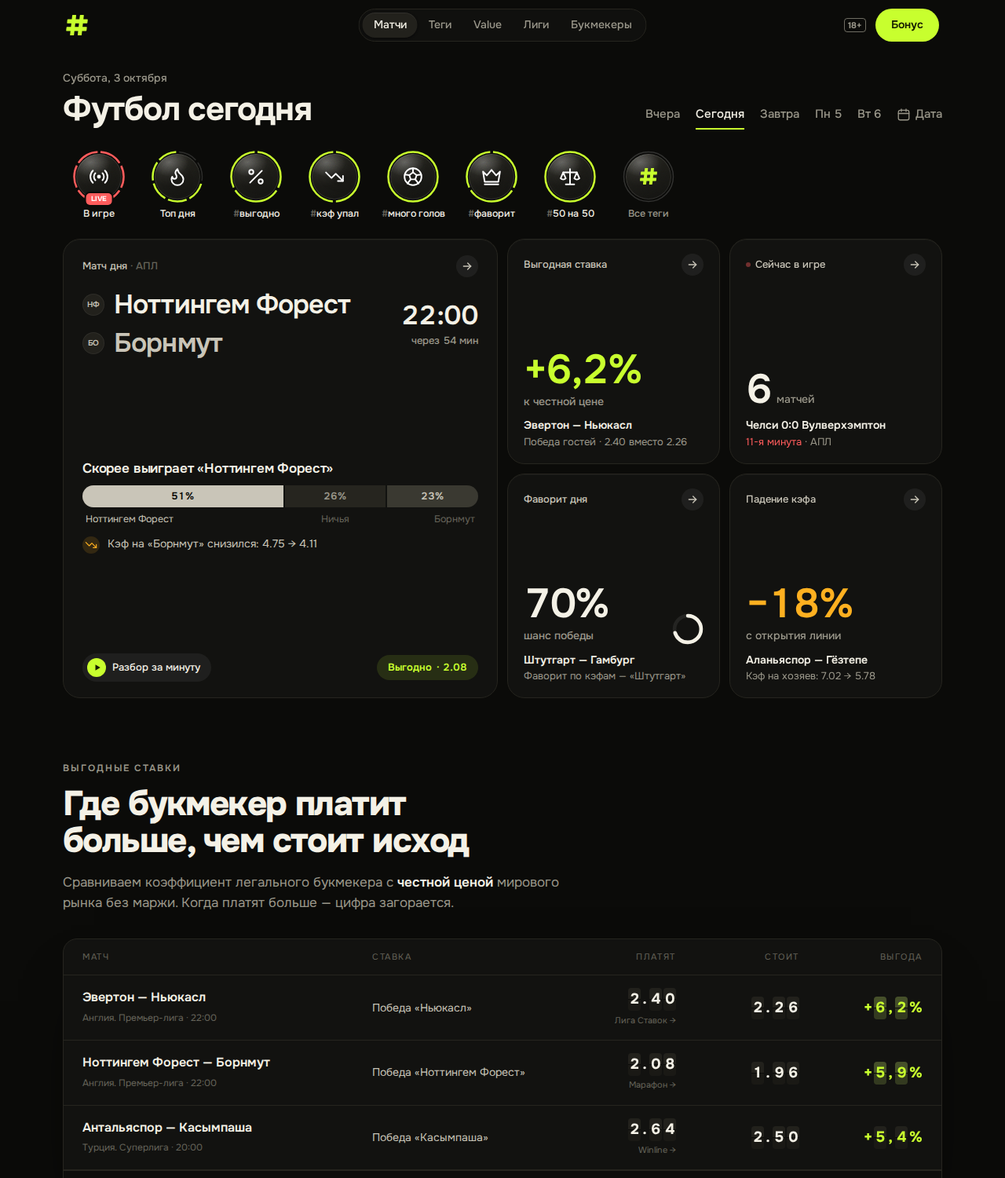
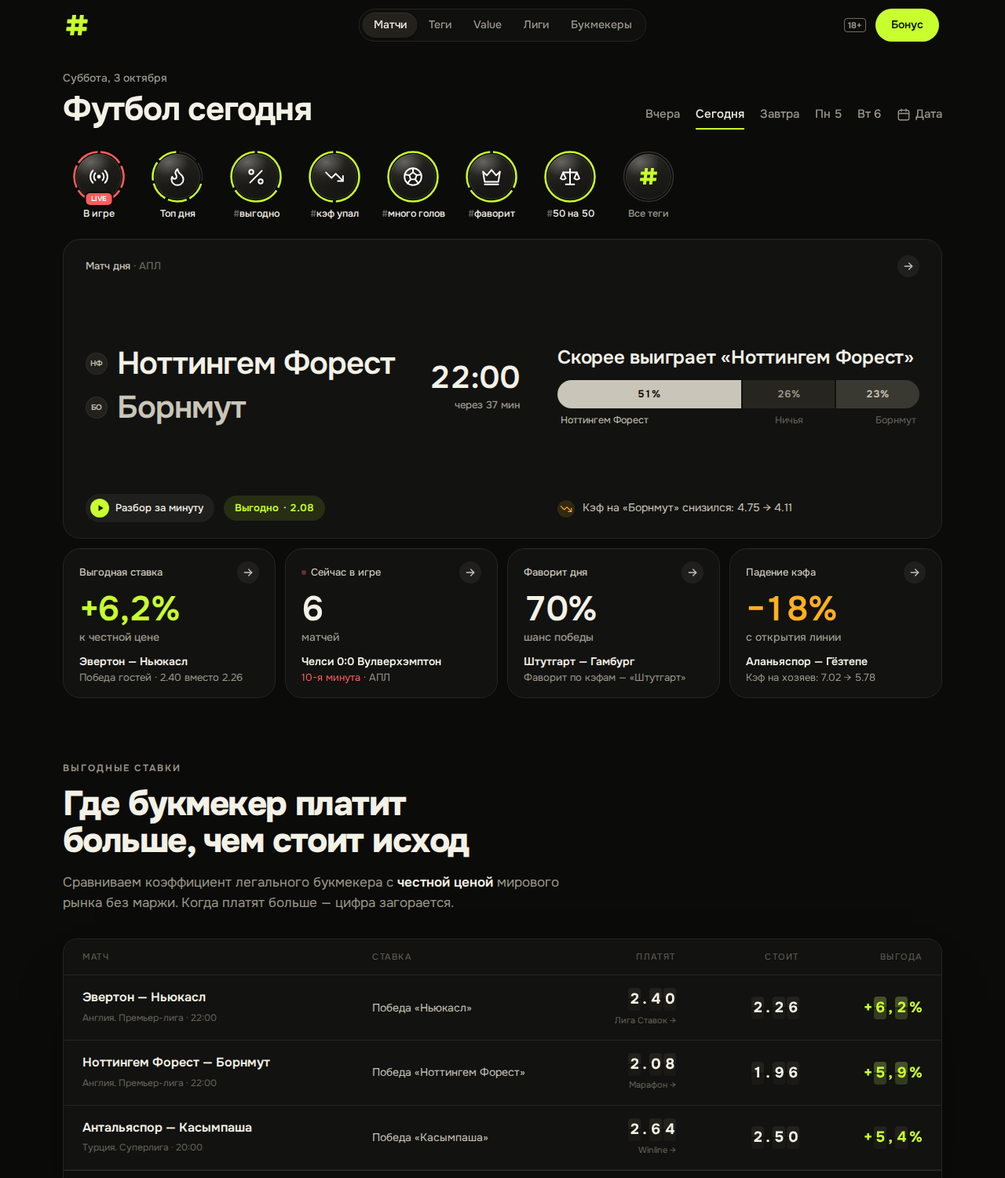
Сводка дня без пустот: широкий «Матч дня» и ряд плиток под ним
- На компьютере «Матч дня» — карточка во всю строку в две колонки: слева
  команды со временем начала и кнопки, справа вывод, полоса шансов и причина.
  Под ней — до четырёх плиток одним рядом. Лишнюю высоту экрана забирает
  «Матч дня» (строки сетки 1fr auto), плитки — по содержимому, поэтому в них
  больше нет пустоты сверху.
- В плитках цифра и подпись всегда столбиком, матч прижат к низу: цифры
  в ряду стоят на одной высоте.
- Убрано кольцо у «Фаворита дня» — оно было похоже на значок загрузки.
- Шрифт команд, вывода и высота полосы шансов растут с высотой окна;
  телефонная раскладка прежняя.
- README, AGENTS.md и docs/home.png обновлены.

Claude-Session: https://claude.ai/code/session_01LqCxNKeCAKNwhNzoBsjYvY

diff --git a/components/DaySummary.tsx b/components/DaySummary.tsx
@@ -69,33 +69,39 @@ function Go() {
   )
 }
 
+/**
+ * Плитка по высоте содержимого: подпись и стрелка → цифра с подписью → матч и пояснение внизу.
+ * Цифры во всех плитках ряда стоят на одной высоте, даже если у матча две строки.
+ */
 function Tile({ label, children }: { label: React.ReactNode; children: React.ReactNode }) {
   return (
-    <article className="group relative flex h-full min-h-[150px] min-w-0 flex-col rounded-[22px] border border-edge bg-panel p-4 shadow-[inset_0_1px_0_rgb(255_255_255/0.035)] transition-colors duration-300 hover:border-edge-2 sm:px-5 sm:py-[18px]">
+    <article className="group relative flex h-full min-w-0 flex-col rounded-[22px] border border-edge bg-panel p-4 shadow-[inset_0_1px_0_rgb(255_255_255/0.035)] transition-colors duration-300 hover:border-edge-2 sm:px-5 sm:py-4">
       <div className="flex items-center justify-between gap-2">
         <span className="flex min-w-0 items-center gap-1.5 truncate text-[13px] font-medium text-chalk">{label}</span>
         <Go />
       </div>
-      <div className="flex min-w-0 flex-1 flex-col justify-end pt-2">{children}</div>
+      <div className="flex min-w-0 flex-1 flex-col pt-2.5">{children}</div>
     </article>
   )
 }
 
-/** Крупная цифра и подпись к ней обычным размером: в узкой плитке подпись встаёт под цифру. */
+/** Крупная цифра и под ней — подпись обычным размером. Всегда столбиком: в соседних плитках всё на одной высоте. */
 function Big({ children, unit, className = '' }: { children: React.ReactNode; unit?: React.ReactNode; className?: string }) {
   return (
-    // подпись встаёт рядом с цифрой, а если места нет — переносится под неё целиком, не обрезаясь
-    <div className="flex min-w-0 flex-wrap items-baseline gap-x-1.5 gap-y-1">
-      <span className={`num whitespace-nowrap text-[30px] font-semibold leading-none tracking-[-0.045em] sm:text-[34px] lg:text-[clamp(34px,5.6vh,52px)] ${className}`}>{children}</span>
-      {unit ? <span className="whitespace-nowrap text-[14px] font-medium text-dim">{unit}</span> : null}
+    <div className="min-w-0">
+      <span className={`num block whitespace-nowrap text-[30px] font-semibold leading-none tracking-[-0.045em] sm:text-[34px] lg:text-[clamp(30px,4.4vh,44px)] ${className}`}>{children}</span>
+      {unit ? <span className="mt-1 block truncate text-[14px] font-medium text-dim">{unit}</span> : null}
     </div>
   )
 }
 
+/** Матч и строка пояснения — внизу плитки. */
+const Detail = ({ children }: { children: React.ReactNode }) => <div className="mt-auto pt-2.5">{children}</div>
+
 /** Матч плитки: вся плитка — ссылка (открывает сторис). */
 function MatchLink({ it, children }: { it: FeedItem; children?: React.ReactNode }) {
   return (
-    <StoryLink id={it.match.id} href={matchHref(it.match)} className={`mt-2.5 line-clamp-2 text-[14px] font-semibold leading-snug ${COVER}`}>
+    <StoryLink id={it.match.id} href={matchHref(it.match)} className={`line-clamp-2 text-[14px] font-semibold leading-snug ${COVER}`}>
       {children ?? names(it.match)}
     </StoryLink>
   )
@@ -113,18 +119,6 @@ const Short = ({ phone, full }: { phone: string; full: string }) => (
     <span className="hidden sm:inline">{full}</span>
   </>
 )
-
-/** Кольцо одного значения: доля круга = шанс. */
-function Ring({ p, size = 40 }: { p: number; size?: number }) {
-  const r = 22
-  const c = 2 * Math.PI * r
-  return (
-    <svg viewBox="0 0 52 52" width={size} height={size} className="shrink-0 -rotate-90" aria-hidden>
-      <circle cx="26" cy="26" r={r} fill="none" stroke="rgb(255 255 255 / 0.08)" strokeWidth="6" />
-      <circle cx="26" cy="26" r={r} fill="none" stroke="var(--color-fg)" strokeWidth="6" strokeLinecap="round" strokeDasharray={`${c * p} ${c}`} />
-    </svg>
-  )
-}
 
 /** Когда начнётся: сегодня — «через 40 мин», «через 3 ч»; в другой день — дата («6 октября»), а не «через 66 ч». */
 const until = (ts: number) => {
@@ -153,12 +147,14 @@ function Card({ kind, s }: { kind: CardKind; s: Summary }) {
           <Big className="text-acid" unit="к честной цене">
             {edge(p.ev ?? 0)}
           </Big>
-          <MatchLink it={it} />
-          {/* что ставить и откуда процент: платят столько-то, а исход стоит столько-то */}
-          <Note>
-            {cap(outcomeShort(p.key))}
-            {p.odd ? ` · ${p.odd.toFixed(2)} вместо ${(1 / p.prob).toFixed(2)}` : ''}
-          </Note>
+          <Detail>
+            <MatchLink it={it} />
+            {/* что ставить и откуда процент: платят столько-то, а исход стоит столько-то */}
+            <Note>
+              {cap(outcomeShort(p.key))}
+              {p.odd ? ` · ${p.odd.toFixed(2)} вместо ${(1 / p.prob).toFixed(2)}` : ''}
+            </Note>
+          </Detail>
         </Tile>
       )
     }
@@ -170,10 +166,12 @@ function Card({ kind, s }: { kind: CardKind; s: Summary }) {
           <Big className="text-hot" unit="с открытия линии">
             −{Math.round(g.drop * 100)}%
           </Big>
-          <MatchLink it={g.item} />
-          <Note>
-            Кэф на {g.side === 'home' ? 'хозяев' : 'гостей'}: {g.from.toFixed(2)} → {g.to.toFixed(2)}
-          </Note>
+          <Detail>
+            <MatchLink it={g.item} />
+            <Note>
+              Кэф на {g.side === 'home' ? 'хозяев' : 'гостей'}: {g.from.toFixed(2)} → {g.to.toFixed(2)}
+            </Note>
+          </Detail>
         </Tile>
       )
     }
@@ -192,7 +190,7 @@ function Card({ kind, s }: { kind: CardKind; s: Summary }) {
         >
           <Big unit={plural(s.liveCount, ['матч', 'матча', 'матчей'])}>{s.liveCount}</Big>
           {m ? (
-            <>
+            <Detail>
               <MatchLink it={top}>
                 {m.home.name} <span className="num">{m.score ? `${m.score.home}:${m.score.away}` : '–'}</span> {m.away.name}
               </MatchLink>
@@ -200,7 +198,7 @@ function Card({ kind, s }: { kind: CardKind; s: Summary }) {
                 <span className="text-live">{m.statusCode === 4 ? 'перерыв' : m.elapsed ? `${m.elapsed}-я минута` : 'идёт'}</span> ·{' '}
                 {featuredInfo(m.league)?.short || m.league.name}
               </Note>
-            </>
+            </Detail>
           ) : null}
         </Tile>
       )
@@ -210,8 +208,10 @@ function Card({ kind, s }: { kind: CardKind; s: Summary }) {
       return (
         <Tile label={s.liveCount ? 'Следующий матч' : 'Первый матч'}>
           <Big unit={until(it.match.ts)}>{formatTime(it.match.ts)}</Big>
-          <MatchLink it={it} />
-          <Note>{featuredInfo(it.match.league)?.short || it.match.league.name}</Note>
+          <Detail>
+            <MatchLink it={it} />
+            <Note>{featuredInfo(it.match.league)?.short || it.match.league.name}</Note>
+          </Detail>
         </Tile>
       )
     }
@@ -222,10 +222,12 @@ function Card({ kind, s }: { kind: CardKind; s: Summary }) {
       return (
         <Tile label="Ждём голов">
           <Big unit={<Short phone="3+ гола" full="шанс 3+ голов" />}>{pct(g.p)}</Big>
-          <MatchLink it={g.item} />
-          <Note>
-            {more > 0 ? `Ещё ${more} ${plural(more, ['матч', 'матча', 'матчей'])} с шансом от ${GOALS_FROM}` : `В подборке — шанс от ${GOALS_FROM}`}
-          </Note>
+          <Detail>
+            <MatchLink it={g.item} />
+            <Note>
+              {more > 0 ? `Ещё ${more} ${plural(more, ['матч', 'матча', 'матчей'])} с шансом от ${GOALS_FROM}` : `В подборке — шанс от ${GOALS_FROM}`}
+            </Note>
+          </Detail>
         </Tile>
       )
     }
@@ -233,12 +235,11 @@ function Card({ kind, s }: { kind: CardKind; s: Summary }) {
       const f = s.favorite!
       return (
         <Tile label="Фаворит дня">
-          <div className="flex items-end justify-between gap-3">
-            <Big unit={<Short phone="победа" full="шанс победы" />}>{pct(f.p)}</Big>
-            <Ring p={f.p} />
-          </div>
-          <MatchLink it={f.item} />
-          <Note>Фаворит по кэфам — «{sideName(f.item.match, f.side)}»</Note>
+          <Big unit={<Short phone="победа" full="шанс победы" />}>{pct(f.p)}</Big>
+          <Detail>
+            <MatchLink it={f.item} />
+            <Note>Фаворит по кэфам — «{sideName(f.item.match, f.side)}»</Note>
+          </Detail>
         </Tile>
       )
     }
@@ -248,10 +249,12 @@ function Card({ kind, s }: { kind: CardKind; s: Summary }) {
           <a href="#matches" className={`block ${COVER}`}>
             <Big unit={plural(s.total, ['матч', 'матча', 'матчей'])}>{s.total}</Big>
           </a>
-          <p className="mt-2.5 line-clamp-2 text-[14px] font-semibold leading-snug">{s.topLeagues.map((l) => featuredInfo(l)?.short || l.name).join(', ')}</p>
-          <Note>
-            {s.leagues} {plural(s.leagues, ['турнир', 'турнира', 'турниров'])}
-          </Note>
+          <Detail>
+            <p className="line-clamp-2 text-[14px] font-semibold leading-snug">{s.topLeagues.map((l) => featuredInfo(l)?.short || l.name).join(', ')}</p>
+            <Note>
+              {s.leagues} {plural(s.leagues, ['турнир', 'турнира', 'турниров'])}
+            </Note>
+          </Detail>
         </Tile>
       )
   }
@@ -282,7 +285,7 @@ function ChanceBar({ m }: { m: Match }) {
   const label = `Шансы по коэффициентам букмекеров: ${cells.map((c) => `${c.k === 'draw' ? c.name : `«${c.name}»`} — ${c.n}%`).join(', ')}`
   return (
     <div role="img" aria-label={label} title={label}>
-      <div className="flex h-7 gap-0.5 overflow-hidden rounded-full">
+      <div className="flex h-7 gap-0.5 overflow-hidden rounded-full lg:h-[clamp(28px,3.6vh,36px)]">
         {cells.map((c) => (
           <span key={c.k} className={`num grid min-w-0 place-items-center text-[13px] font-semibold ${tone(c.k)}`} style={{ width: `${c.p * 100}%` }}>
             <span className="truncate px-1">{c.n}%</span>
@@ -346,11 +349,12 @@ function TopCard({ it }: { it: FeedItem }) {
     </span>
   )
   return (
-    // три группы: команды сверху, вывод посередине, кнопки снизу — свободное место делится между ними,
-    // а не собирается одной дырой, когда карточка тянется на высоту экрана
-    <article className="group relative col-span-2 flex min-w-0 flex-col justify-between gap-5 rounded-[22px] border border-edge bg-panel p-5 shadow-[inset_0_1px_0_rgb(255_255_255/0.035)] transition-colors duration-300 hover:border-edge-2 sm:px-6 sm:py-5 lg:row-span-2">
-      <div>
-        <div className="flex items-center justify-between gap-3">
+    // на телефоне — столбик: команды → вывод → кнопки. На компьютере — широкая карточка во всю строку,
+    // две колонки: слева команды со временем начала (как на табло) и кнопки, справа вывод с полосой шансов
+    // и причина; ряды выровнены, лишняя высота уходит поровну вокруг команд и вывода
+    <article className="group relative col-span-2 flex min-w-0 flex-col gap-5 rounded-[22px] border border-edge bg-panel p-5 shadow-[inset_0_1px_0_rgb(255_255_255/0.035)] transition-colors duration-300 hover:border-edge-2 sm:px-6 sm:py-5 lg:col-span-4 lg:grid lg:grid-cols-[minmax(0,1.2fr)_minmax(0,1fr)] lg:grid-rows-[auto_minmax(0,1fr)_auto] lg:gap-x-12 lg:gap-y-3 lg:px-7 lg:py-5">
+      <div className="lg:contents">
+        <div className="flex items-center justify-between gap-3 lg:col-span-2">
           <p className="min-w-0 truncate text-[13px] font-medium text-chalk">
             {live ? <span className="mr-1.5 inline-block h-1.5 w-1.5 animate-pulse-live rounded-full bg-live align-middle" /> : null}
             Матч дня <span className="text-mute">· {featuredInfo(m.league)?.short || m.league.name}</span>
@@ -359,7 +363,7 @@ function TopCard({ it }: { it: FeedItem }) {
         </div>
 
         {/* команды, справа — время начала, как на табло; после стартового свистка на этом месте счёт */}
-        <div className="mt-3.5 flex items-center gap-3 text-[21px] font-semibold leading-tight tracking-[-0.025em] sm:text-[23px] lg:text-[clamp(23px,3.8vh,34px)]">
+        <div className="mt-3.5 flex items-center gap-3 text-[21px] font-semibold leading-tight tracking-[-0.025em] sm:text-[23px] lg:col-start-1 lg:row-start-2 lg:mt-0 lg:gap-6 lg:self-center lg:text-[clamp(26px,4.2vh,40px)]">
           <StoryLink id={m.id} href={matchHref(m)} className={`block min-w-0 flex-1 space-y-1.5 ${COVER}`}>
             {team(m.home, m.score?.home)}
             {team(m.away, m.score?.away, true)}
@@ -374,10 +378,10 @@ function TopCard({ it }: { it: FeedItem }) {
         </div>
       </div>
 
-      <div>
+      <div className="lg:contents">
         {played ? (
-          <>
-            <p className="mb-3 text-[17px] font-semibold leading-snug tracking-[-0.01em]">
+          <div className="lg:col-start-2 lg:row-start-2 lg:self-center">
+            <p className="mb-3 text-[17px] font-semibold leading-snug tracking-[-0.01em] lg:text-[clamp(18px,2.7vh,24px)]">
               {live ? (m.statusCode === 4 ? 'Перерыв' : m.elapsed ? `Идёт ${m.elapsed}-я минута` : 'Идёт матч') : 'Матч завершён'}
             </p>
             {live ? (
@@ -385,14 +389,16 @@ function TopCard({ it }: { it: FeedItem }) {
                 <div className="h-full rounded-full bg-live" style={{ width: `${Math.min(100, ((m.elapsed ?? 45) / 90) * 100)}%` }} />
               </div>
             ) : null}
-          </>
+          </div>
         ) : (
           <>
             {/* вывод → на чём он основан (полоса шансов по кэфам) → причина */}
-            {v ? <p className="mb-2.5 text-[17px] font-semibold leading-snug tracking-[-0.01em]">{v.headline}</p> : null}
-            <ChanceBar m={m} />
+            <div className="lg:col-start-2 lg:row-start-2 lg:self-center">
+              {v ? <p className="mb-2.5 text-[17px] font-semibold leading-snug tracking-[-0.01em] lg:mb-3 lg:text-[clamp(18px,2.7vh,24px)]">{v.headline}</p> : null}
+              <ChanceBar m={m} />
+            </div>
             {why ? (
-              <p className="mt-3 flex items-start gap-2.5 text-[14px] leading-snug text-chalk">
+              <p className="mt-3 flex items-start gap-2.5 text-[14px] leading-snug text-chalk lg:col-start-2 lg:row-start-3 lg:mt-0 lg:self-center">
                 <span className={`mt-px grid h-[22px] w-[22px] shrink-0 place-items-center rounded-full ${ACCENT[why.accent]}`}>
                   <Icon name={why.icon} />
                 </span>
@@ -402,24 +408,23 @@ function TopCard({ it }: { it: FeedItem }) {
           </>
         )}
       </div>
-      {/* кнопки — внизу карточки */}
-      <div>
-        <div className="flex flex-wrap items-center justify-between gap-x-3 gap-y-2 text-[13px]">
-          <span aria-hidden className="inline-flex shrink-0 items-center gap-2 whitespace-nowrap rounded-full bg-white/[0.06] py-1.5 pl-1.5 pr-3.5 font-medium text-fg">
-            <span className="grid h-6 w-6 place-items-center rounded-full bg-acid text-acid-ink">
-              <svg viewBox="0 0 12 12" className="ml-px h-2.5 w-2.5" fill="currentColor">
-                <path d="M3 1.5v9l7.5-4.5z" />
-              </svg>
-            </span>
-            Разбор за минуту
+
+      {/* кнопки — внизу; на компьютере — под командами */}
+      <div className="flex flex-wrap items-center justify-between gap-x-3 gap-y-2 text-[13px] lg:col-start-1 lg:row-start-3 lg:justify-start lg:self-center">
+        <span aria-hidden className="inline-flex shrink-0 items-center gap-2 whitespace-nowrap rounded-full bg-white/[0.06] py-1.5 pl-1.5 pr-3.5 font-medium text-fg">
+          <span className="grid h-6 w-6 place-items-center rounded-full bg-acid text-acid-ink">
+            <svg viewBox="0 0 12 12" className="ml-px h-2.5 w-2.5" fill="currentColor">
+              <path d="M3 1.5v9l7.5-4.5z" />
+            </svg>
           </span>
-          {bet && betLabel ? (
-            <span className="inline-flex min-w-0 items-center gap-1.5 rounded-full bg-acid/[0.12] px-3.5 py-1.5 font-semibold text-acid">
-              <span className="truncate">{betLabel}</span>
-              {bet.odd ? <span className="num shrink-0">· {bet.odd.toFixed(2)}</span> : null}
-            </span>
-          ) : null}
-        </div>
+          Разбор за минуту
+        </span>
+        {bet && betLabel ? (
+          <span className="inline-flex min-w-0 items-center gap-1.5 rounded-full bg-acid/[0.12] px-3.5 py-1.5 font-semibold text-acid">
+            <span className="truncate">{betLabel}</span>
+            {bet.odd ? <span className="num shrink-0">· {bet.odd.toFixed(2)}</span> : null}
+          </span>
+        ) : null}
       </div>
     </article>
   )
@@ -434,21 +439,25 @@ function arrange(cards: CardKind[]): CardKind[] {
 }
 
 /**
- * «Сводка дня» — первый экран главной: «Матч дня» слева и до четырёх плиток справа (2×2).
- * Все плитки тёмные, цвет — только на главной цифре и значке, чтобы главным оставался «Матч дня».
- * Всё влезает в экран ноутбука без прокрутки; каждый виджет открывает сторис матча или нужный блок.
+ * «Сводка дня» — первый экран главной. На телефоне — «Матч дня» и плитки по две в ряд; на компьютере —
+ * «Матч дня» широкой карточкой во всю строку и до четырёх плиток одним рядом под ним. Сводка тянется
+ * до низа окна (см. DayView): лишнюю высоту забирает в основном «Матч дня», плитки остаются почти
+ * по содержимому — без пустот. Все плитки тёмные, цвет — только на главной цифре; каждая открывает
+ * сторис матча или нужный блок.
  */
 export function DaySummary({ s, className = '' }: { s: Summary; className?: string }) {
   if (!s.top) return null
   const cards = arrange(summaryCards(s))
+  const n = cards.length
   return (
-    <section aria-label="Сводка дня" className={`grid grid-cols-2 gap-3 lg:grid-cols-4 ${className}`}>
+    <section aria-label="Сводка дня" className={`grid grid-cols-2 gap-3 lg:grid-cols-4 ${n ? 'lg:grid-rows-[1fr_auto]' : ''} ${className}`}>
       <TopCard it={s.top} />
       {cards.map((k, i) => {
-        // карточек меньше четырёх — последние растягиваем, чтобы в сетке не было дыр
-        const wide = cards.length <= 2 || (cards.length === 3 && i === 2)
+        // карточек меньше четырёх — растягиваем, чтобы в ряду не было дыр
+        const phone = n <= 2 || (n === 3 && i === 2) ? 'col-span-2' : ''
+        const desk = n === 1 ? 'lg:col-span-4' : n === 2 || (n === 3 && i === 2) ? 'lg:col-span-2' : 'lg:col-span-1'
         return (
-          <div key={k} className={`min-w-0 ${wide ? 'col-span-2' : ''} ${cards.length === 2 ? 'lg:col-span-2' : ''}`}>
+          <div key={k} className={`min-w-0 ${phone} ${desk}`}>
             <Card kind={k} s={s} />
           </div>
         )

diff --git a/AGENTS.md b/AGENTS.md
@@ -20,7 +20,7 @@ This block is written and re-added by `next dev` — verify at `node_modules/nex
 - Демо без сети: `SSTATS_MOCK=1` (полосы над шапкой нет — только строка в подвале, `IS_MOCK` в `Footer.tsx`). Проверки: `npm run typecheck`, `npm test`, `npm run build`.
 - «Матч в слайдах» (сторис): данные — `lib/story.ts` → `/api/story/[id]`, просмотр и графики — `components/story/`. Ссылки на матч в списках — через `StoryLink` (обычная ссылка для SEO, клик открывает сторис).
 - Кружки историй на главной: группы — `lib/story-groups.ts` (порядок по `lib/rank.ts`), ряд — `components/story/StoryCircles.tsx`, очередь передаётся в просмотрщик через `openStory({ queue })`. Просмотренные — в `localStorage` (`components/story/seen.ts`, ключ `tagbet:seen:v2`), только для колец и отдельно для каждого кружка (отметка «кружок:матч»): просмотр в одном кружке не гасит другие, открытия из списков и виджетов не считаются; сегменты гаснут по порядку от верха. Очередь по тапу и отметки повторов — `components/story/queue.ts` (тест `tests/story-queue.test.ts`). На главной — «В игре», «Топ дня» и до 5 главных тегов (`mainCircles`), подписи в одну строку.
-- «Сводка дня» (виджеты первого экрана главной): данные — `lib/day-summary.ts` (`buildDaySummary`, `summaryCards` — какие 4 маленьких виджета показать), вид — `components/DaySummary.tsx` (одна схема плитки: подпись → крупная цифра → матч → одна строка пояснения, без осей, легенд и текста мельче 13px; «Матч дня» — вывод → причина → разбор: команды, фраза словами, нейтральная полоса шансов в процентах с подписями «команда · Ничья · команда» (светлая — фаворит), одна причина, «Разбор за минуту» и «Выгодно». Все плитки тёмные: цвет только на главной цифре — лайм у выгодной ставки, янтарь у падения кэфа, красный у live (точка в подписи и минута); справа сверху у каждой плитки, и у «Матча дня» тоже, — стрелка «перейти» `Go` (вся плитка — ссылка, при наведении стрелка светлеет и сдвигается); в «Матче дня» время начала — справа от команд, как на табло (в игре на этом месте счёт; «через 40 мин» — только на ширине от sm); у каждой цифры точная подпись — «к честной цене», «с открытия линии», «шанс победы», «шанс 3+ голов» + порог отбора; у будущих дней — дата, а не «через 66 ч»). Выбор дня — `DateTabs` + календарь `DatePicker` (±1 год / +2 месяца). Первый экран главной (шапка, кружки, сводка) на компьютере занимает всё окно: обёртка в `DayView` — `lg:min-h-[min(calc(100svh-7rem),50rem)]`, сводка — `lg:flex-1`, крупные цифры и команды «Матча дня» растут с высотой окна (`clamp(…vh…)`), а «Все матчи дня» начинаются ниже, по прокрутке. Сводка должна влезать целиком в 1280×720 и 1440×760, а заголовок «Матчи» — не выглядывать снизу; проверяйте замером. На прошедших днях сводки нет.
+- «Сводка дня» (виджеты первого экрана главной): данные — `lib/day-summary.ts` (`buildDaySummary`, `summaryCards` — какие 4 маленьких виджета показать), вид — `components/DaySummary.tsx` (на компьютере «Матч дня» — широкая карточка во всю строку, две колонки: слева команды со временем и кнопки, справа вывод с полосой шансов и причина; под ней до 4 плиток одним рядом. Строки сетки — `1fr auto`: лишнюю высоту забирает «Матч дня», плитки — по содержимому; строку плиток не делайте `fr` — при подсчёте высоты она раздувает и «Матч дня», и сводка уезжает за экран. Одна схема плитки: подпись и стрелка → крупная цифра и подпись под ней (всегда столбиком, чтобы цифры в ряду стояли вровень) → матч и одна строка пояснения, прижатые к низу (`Detail`); без осей, легенд, колец-диаграмм (похожи на значок загрузки) и текста мельче 13px; «Матч дня» — вывод → причина → разбор: команды, фраза словами, нейтральная полоса шансов в процентах с подписями «команда · Ничья · команда» (светлая — фаворит), одна причина, «Разбор за минуту» и «Выгодно». Все плитки тёмные: цвет только на главной цифре — лайм у выгодной ставки, янтарь у падения кэфа, красный у live (точка в подписи и минута); справа сверху у каждой плитки, и у «Матча дня» тоже, — стрелка «перейти» `Go` (вся плитка — ссылка, при наведении стрелка светлеет и сдвигается); в «Матче дня» время начала — справа от команд, как на табло (в игре на этом месте счёт; «через 40 мин» — только на ширине от sm); у каждой цифры точная подпись — «к честной цене», «с открытия линии», «шанс победы», «шанс 3+ голов» + порог отбора; у будущих дней — дата, а не «через 66 ч»). Выбор дня — `DateTabs` + календарь `DatePicker` (±1 год / +2 месяца). Первый экран главной (шапка, кружки, сводка) на компьютере занимает всё окно: обёртка в `DayView` — `lg:min-h-[min(calc(100svh-7rem),50rem)]`, сводка — `lg:flex-1`, крупные цифры и команды «Матча дня» растут с высотой окна (`clamp(…vh…)`), а «Все матчи дня» начинаются ниже, по прокрутке. Сводка должна влезать целиком в 1280×720 и 1440×760, а заголовок «Матчи» — не выглядывать снизу; проверяйте замером. На прошедших днях сводки нет.
 - Шапка (логотип — только наклонная лаймовая решётка `LogoMark`, 26 px в шапке и 28 в подвале, без надписи «tag.bet» — так решил владелец; знак — `components/logo-paths.ts` из `public/brand/mark.svg`; без подложки): `components/Header.tsx` + `HeaderShell.tsx` (стекло после прокрутки) + `NavCapsule.tsx` (меню-капсула; раздел по адресу — `activeNav`).
 - Цвета по смыслу: лайм — «цена выше честной» (сила перевеса — яркостью лайма, `edgeTone` в `components/Flaps.tsx`), янтарь — прогруз, красный — live. Светофор не используем.
 - Для тех, кто не разбирается в цифрах: вывод словами — `lib/verdict.ts` (`buildVerdict`: «Скорее выиграет «X»», голы, падение кэфа, выгодная ставка; `split100` — проценты трёх исходов в сумме ровно 100, `outcomeText`/`outcomeShort` — исход словами вместо «П1»/«ТБ 2.5»). Только факты из данных: про прогруз — «кэф снизился», не «массово ставят». Пороги слов — как у тега #фаворит (60%) и слайда «Кто фаворит» (47%). Без обещаний: только «скорее», «вероятно». В строках и «Матче дня» — только выгодная ставка (обычный прогноз модели бывает «против» вывода). Теги подписаны простыми словами (`label`: `#выгодно`, `#кэф упал`…), slug и адреса прежние; цифра тега — в `TagHit.p`, а не в тексте.

diff --git a/README.md b/README.md
@@ -32,9 +32,10 @@
 ## Что уже работает
 
 - Главная и страницы дней: кружки историй («В игре», «Топ дня», до пяти главных тегов и «Все теги»), «сводка
-  дня» из виджетов — она занимает весь первый экран: заходишь и сразу видишь главное (матч дня с выводом
-  словами, выгодная ставка, падение кэфа, live или первый матч, голы, фаворит — каждый открывает сторис),
-  а список матчей начинается ниже, по прокрутке. Дальше — таблица «Выгодные ставки», матчи по турнирам (топ-лиги
+  дня» из виджетов — она занимает весь первый экран: заходишь и сразу видишь главное. На компьютере сверху
+  широкий «Матч дня» (команды и время начала, вывод словами, полоса шансов, причина), под ним — ряд из
+  четырёх плиток (выгодная ставка, падение кэфа, live или первый матч, голы, фаворит; у каждой стрелка
+  «перейти», все открывают сторис), а список матчей начинается ниже, по прокрутке. Дальше — таблица «Выгодные ставки», матчи по турнирам (топ-лиги
   первыми), live-счёт; в строке матча — вывод словами («Скорее выиграет «X»»), полоса «кто сильнее»,
   кэфы на хозяев · ничью · гостей с отметкой падения, выгодный кэф горит лаймом, теги. Выбор дня — вкладки
   «Вчера · Сегодня · Завтра…» и кнопка календаря: любой день за год назад и два месяца вперёд.
